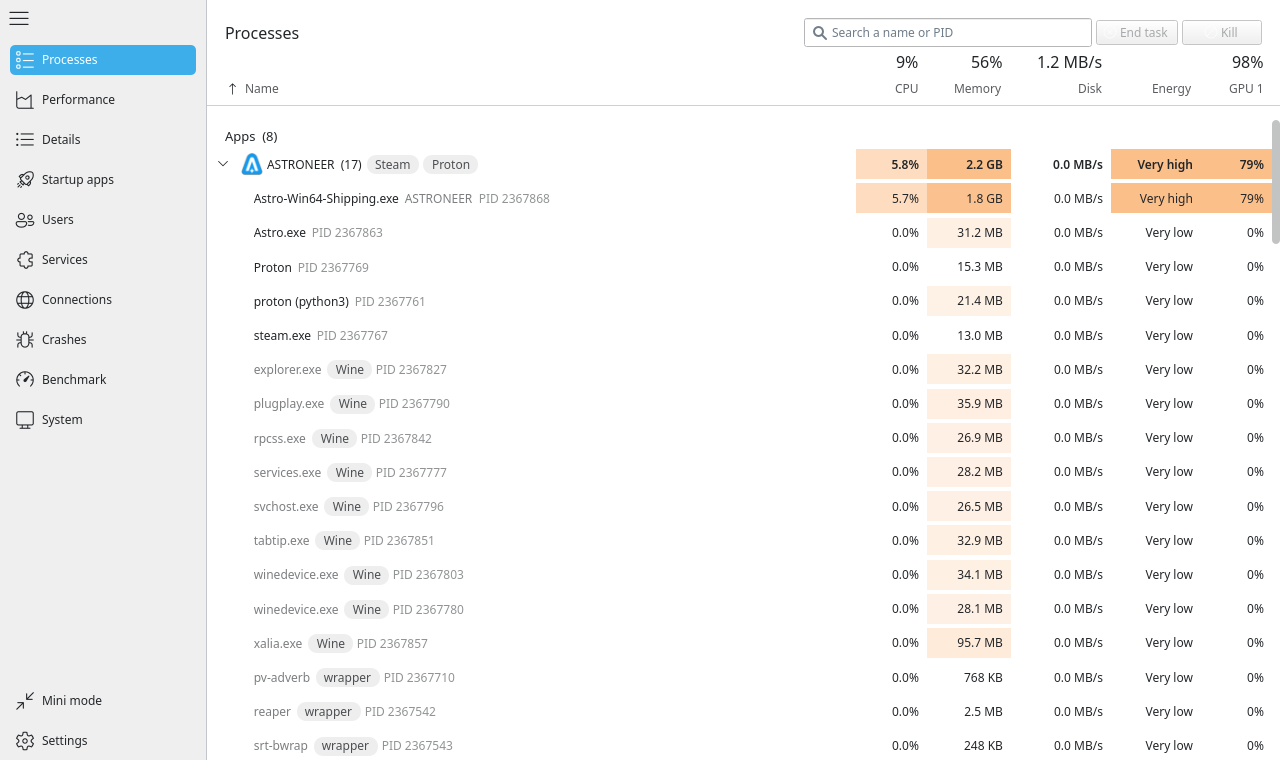
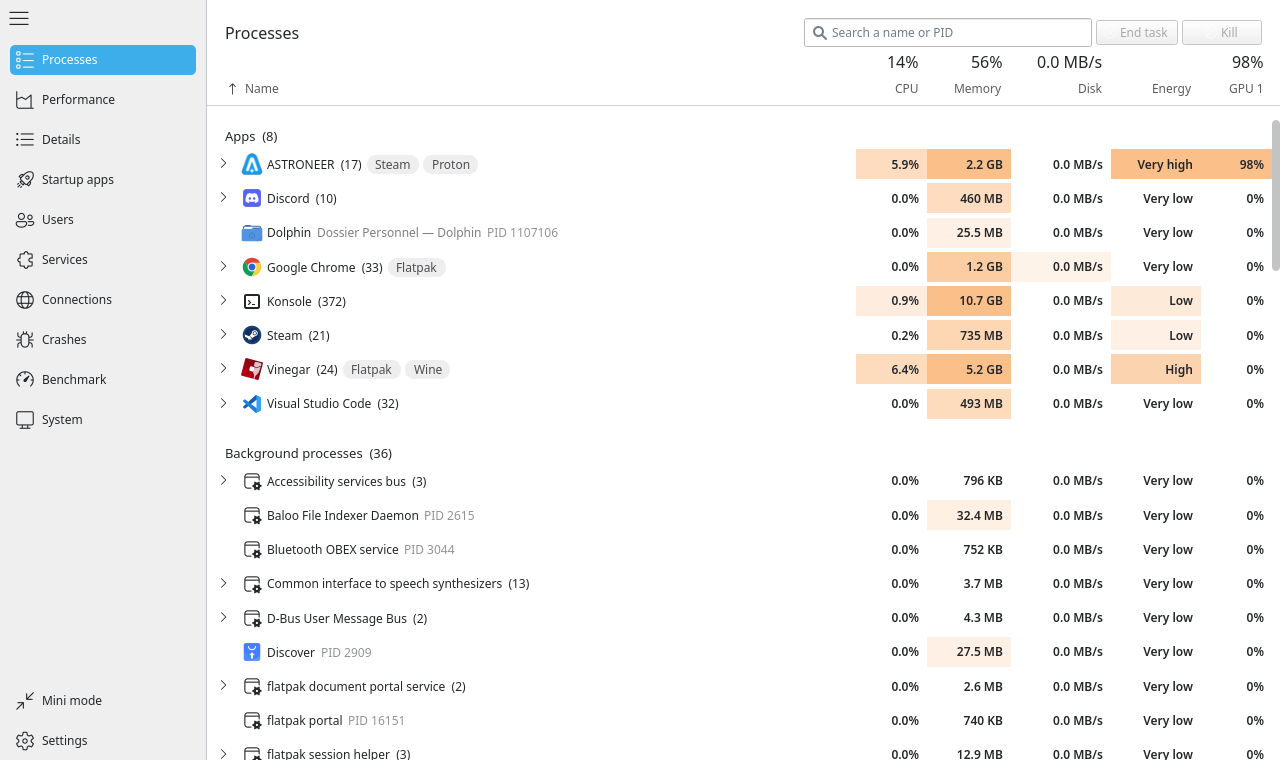
README: install from the release AppImage, warn that the app is young

diff --git a/README.md b/README.md
@@ -20,22 +20,24 @@ shows up as the game, not as `wine64-preloader` and `pressure-vessel`.
 
 ## Install
 
+> [!WARNING]
+> taskmgr-rust is very young and has been tested on a handful of systems
+> only. If something is missing, wrong or crashes on yours, please
+> [open an issue](https://github.com/RsMan-Dev/taskmgr-rust/issues) with
+> your distribution, desktop and what you saw.
+
+Download `taskmgr-x86_64.AppImage` from the
+[releases](https://github.com/RsMan-Dev/taskmgr-rust/releases), then:
+
 ```sh
-nix run github:RsMan-Dev/taskmgr-rust
+chmod +x taskmgr-x86_64.AppImage
+./taskmgr-x86_64.AppImage
 ```
 
-Or build the AppImage (any x86_64 distribution since about 2018):
-
-```sh
-nix build github:RsMan-Dev/taskmgr-rust#appimage
-```
+On NixOS: `nix run github:RsMan-Dev/taskmgr-rust`.
 
 From source, with Rust 1.88+, Qt 6.5+ and Kirigami 6:
-
-```sh
-cargo build --release
-./target/release/taskmgr
-```
+`cargo build --release`.
 
 ## Permissions
 
